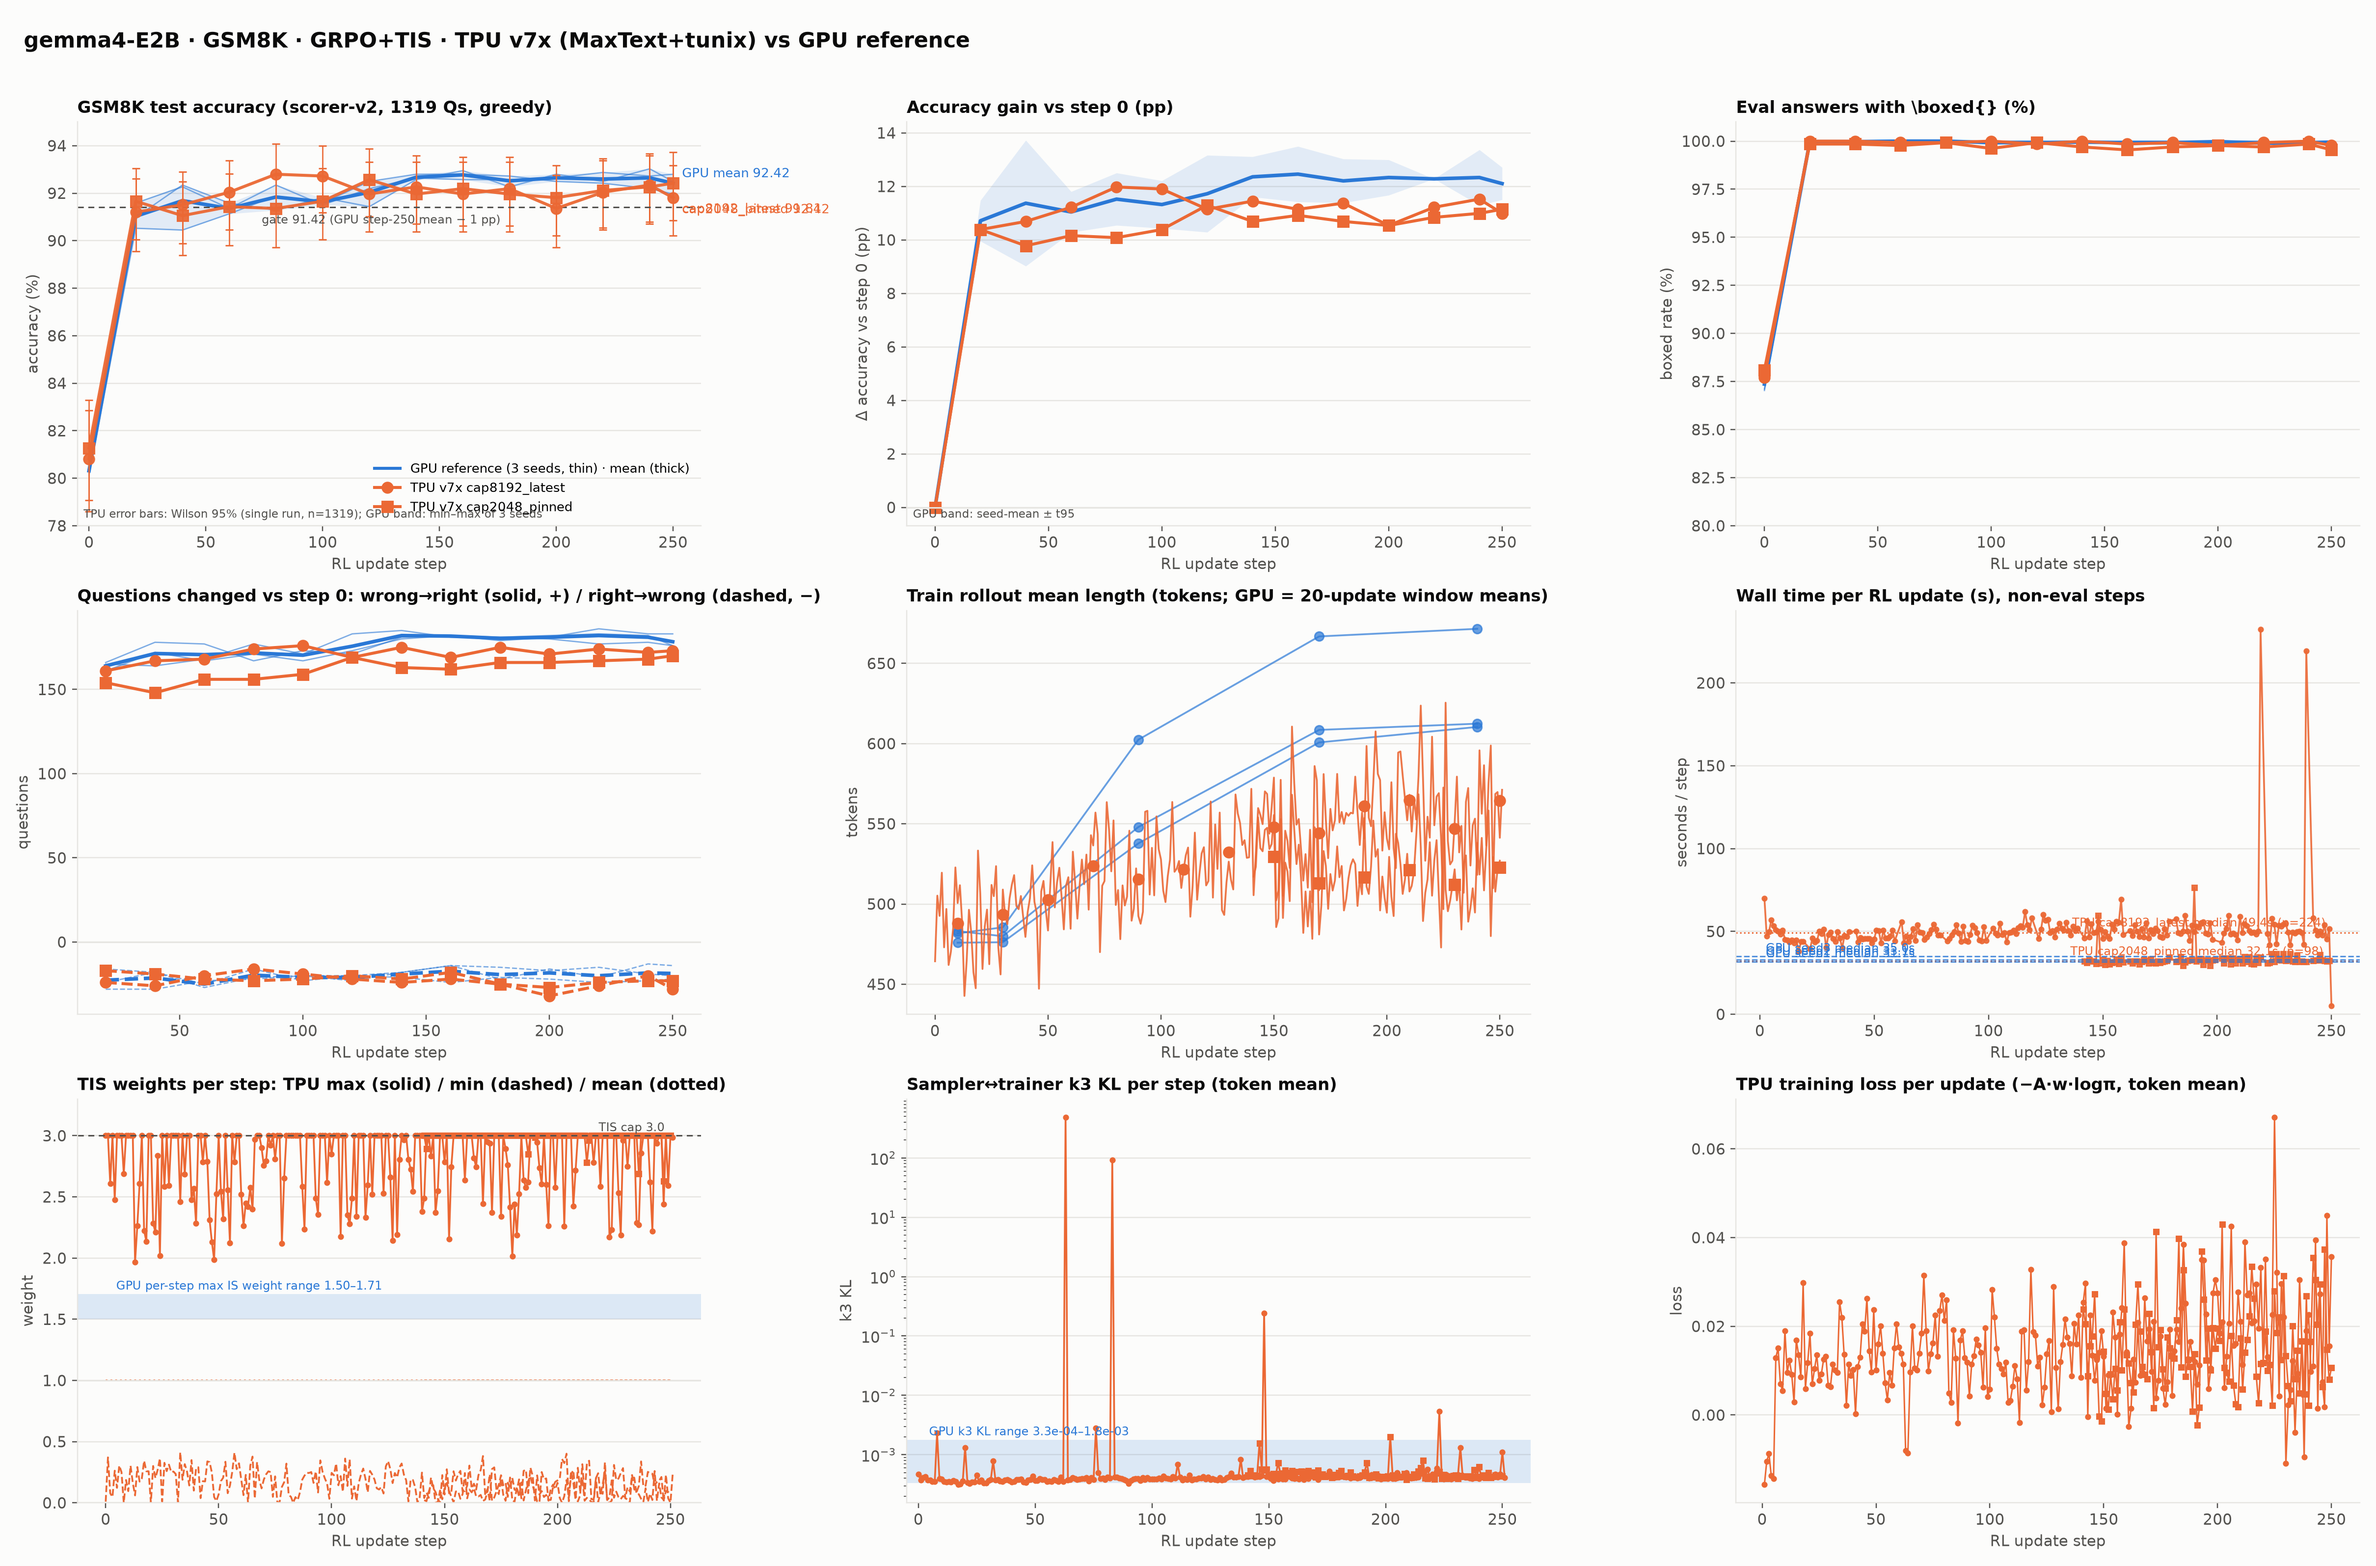
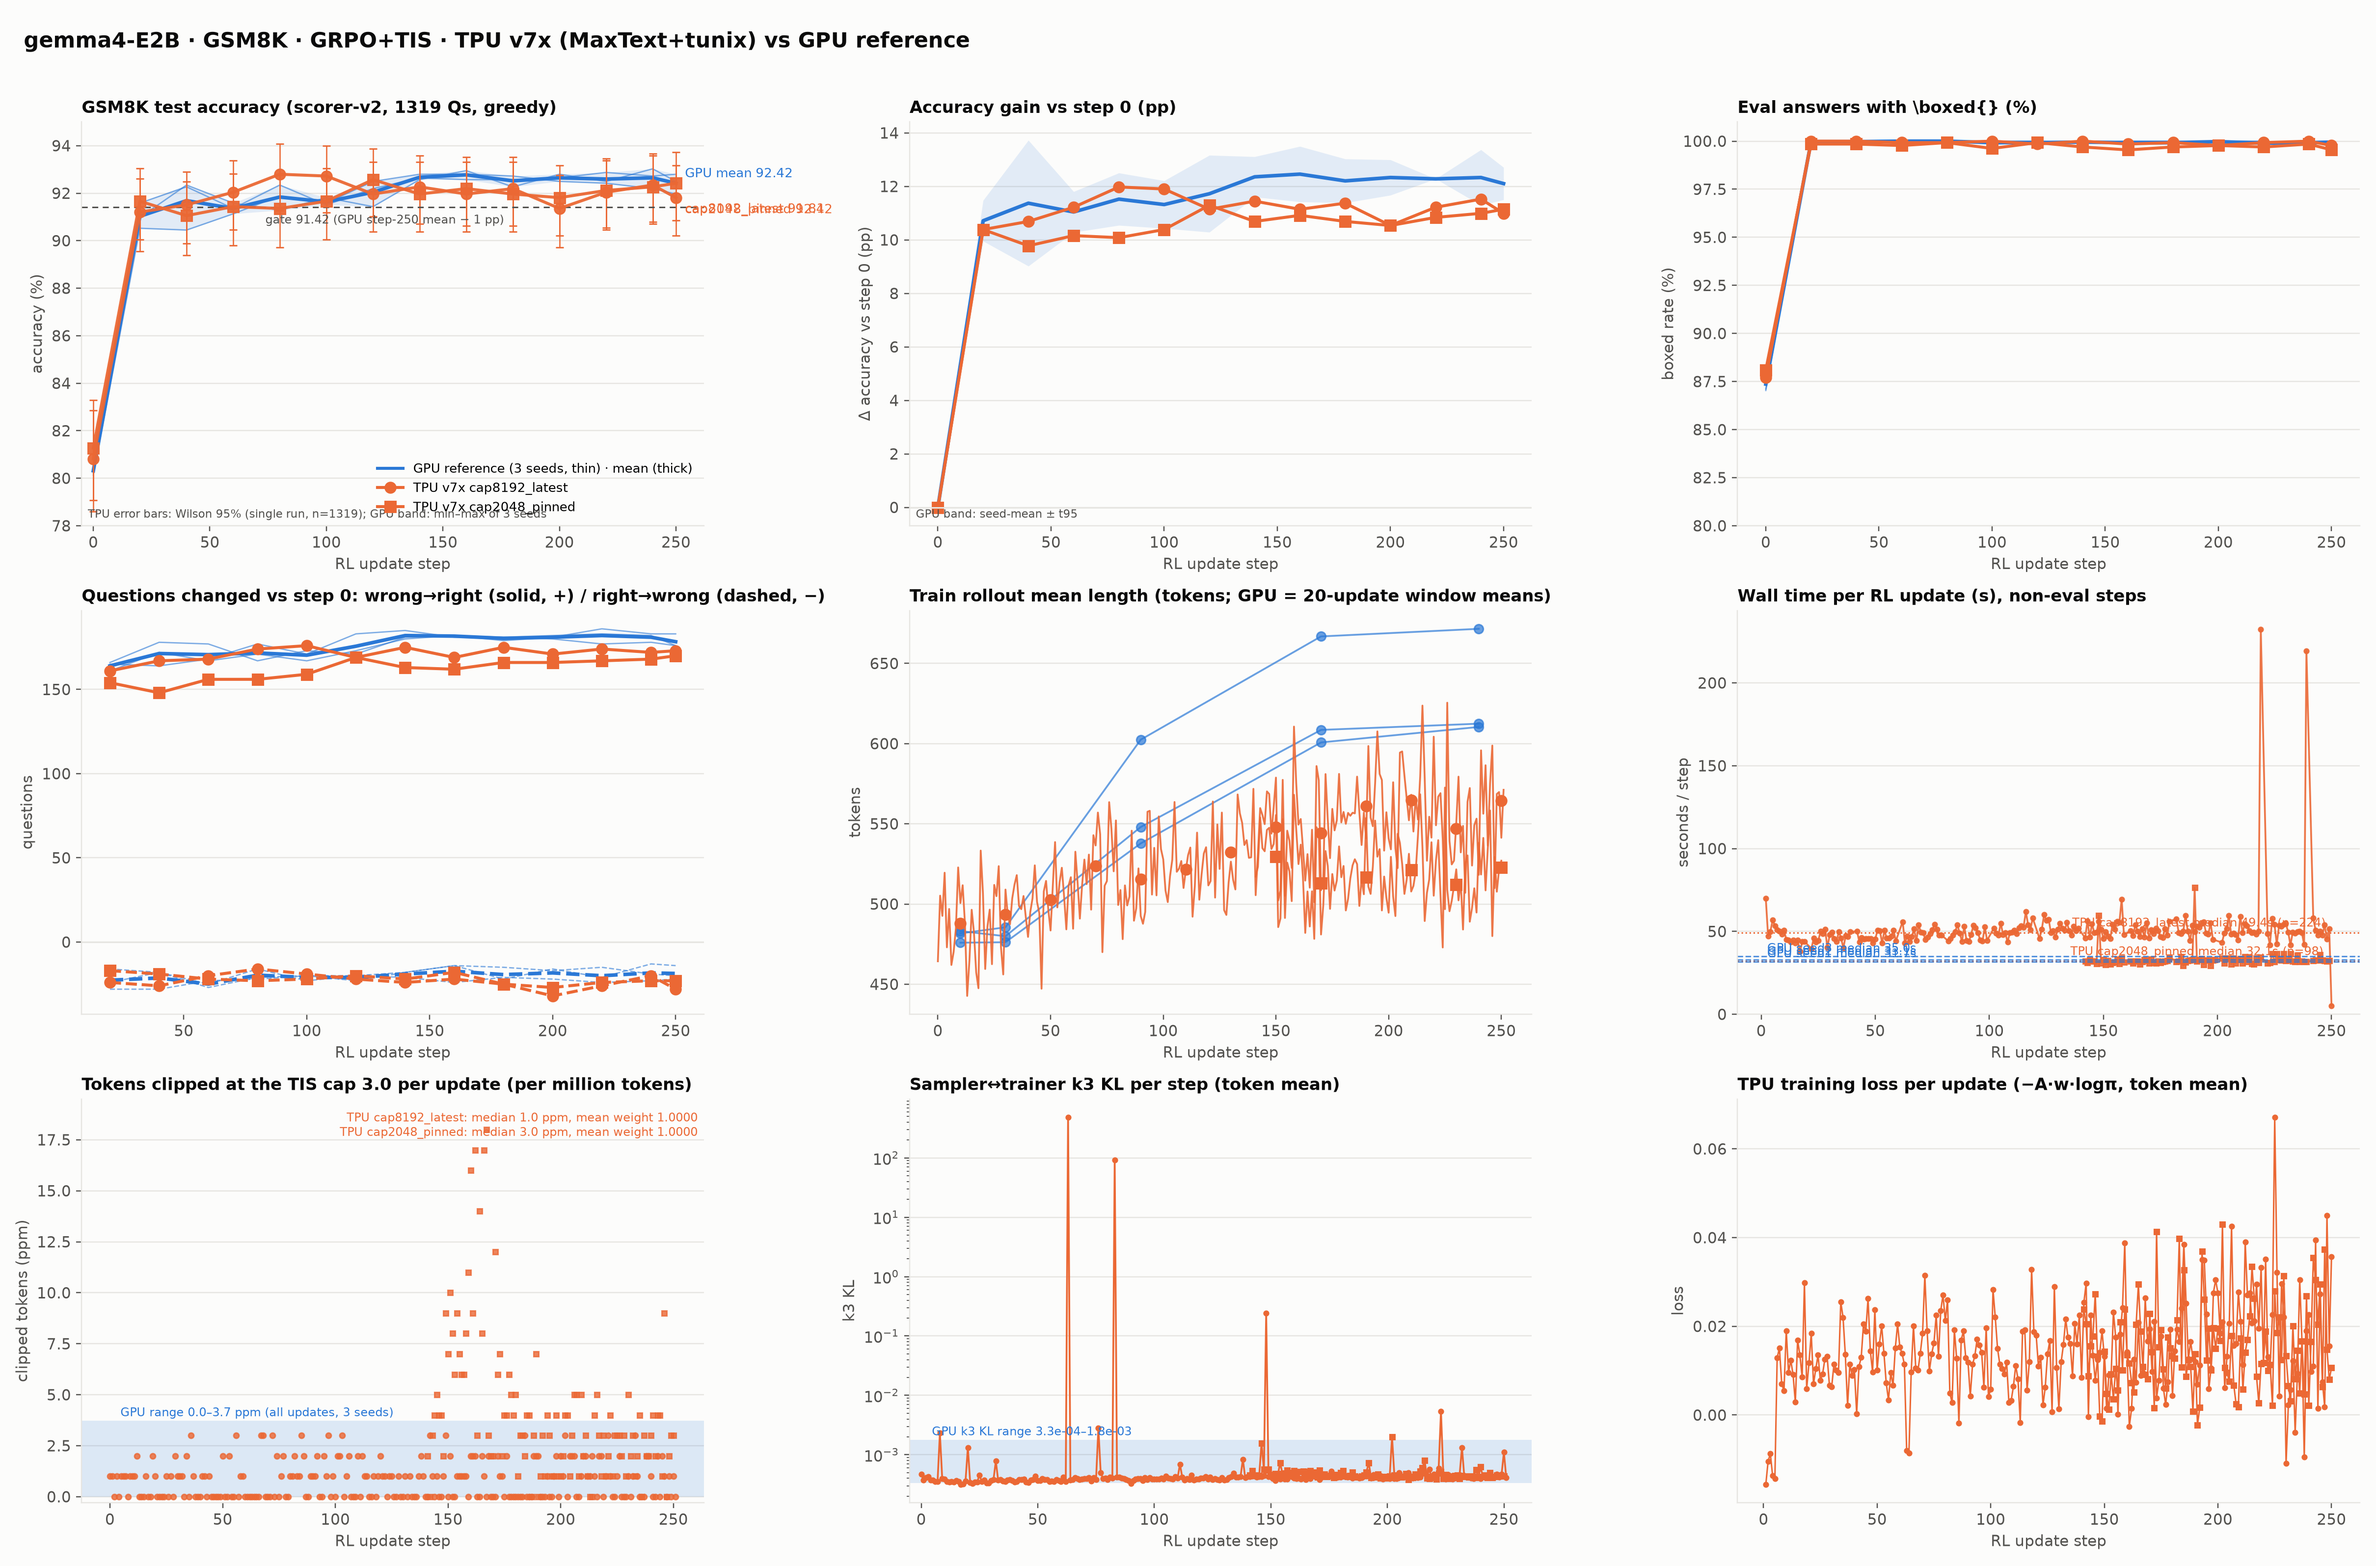
gemma4 parity figures: compare clipped-token fraction instead of weight max (GPU max is a per-worker average); deterministic duplicate-dump choice; regenerate cap-8192 overview

diff --git a/gemma4/parity/tools/make_parity_figures.py b/gemma4/parity/tools/make_parity_figures.py
@@ -157,7 +157,11 @@ def load_tpu(name, dumpdir, logs):
         if step in evals:
             # two dumps for one step (a first pass and a resumed re-run): keep the one from the LATER file
             # name is not meaningful, so prefer the re-run = the dump written last (mtime)
-            if os.path.getmtime(fp) < evals[step].get("mtime", 0):
+            # near-equal mtimes (dumps re-downloaded together): the re-run after a checkpoint resume is the dump
+            # named exactly on the grid (eval_120 vs the first pass's eval_121), so keep the on-grid one
+            mt, pmt = os.path.getmtime(fp), evals[step].get("mtime", 0)
+            tie = abs(mt - pmt) < 300  # same download batch
+            if (not tie and mt < pmt) or (tie and evals[step].get("k") == step and k != step):
                 print(f"  [skip] {os.path.basename(fp)}: older duplicate of step {step}", file=sys.stderr)
                 continue
             print(f"  [replace] step {step}: {os.path.basename(fp)} supersedes the earlier dump", file=sys.stderr)
@@ -309,20 +313,27 @@ def fig_step_time(ax, gpu, tpu_runs):
 
 
 def fig_tis(ax, gpu, tpu_runs):
+    # Like-for-like: share of tokens whose importance ratio exceeds the TIS cap (TPU frac_clipped == GPU
+    # rollout_is_ratio_fraction_high). The per-update weight max is NOT comparable: TPU logs the true max over
+    # ~1e6 tokens (reads 3.0 whenever one token is clipped), the GPU logs a max averaged over its 64 workers
+    # (1.5-1.7 even in updates that report clipped tokens).
+    capped = []; top = 0.0
     for i, r in enumerate(tpu_runs):
         xs = sorted(s for s, rec in r["steps"].items() if "tis" in rec)
         if not xs: continue
-        ax.plot(xs, [r["steps"][s]["tis"]["wmax"] for s in xs], color=TPU_C, lw=1.2, marker=MARKERS[i % len(MARKERS)], ms=3)
-        ax.plot(xs, [r["steps"][s]["tis"]["wmin"] for s in xs], color=TPU_C, lw=1.2, ls="--")
-        ax.plot(xs, [r["steps"][s]["tis"]["wmean"] for s in xs], color=TPU_C, lw=1.2, ls=":")
-    lo = min(gpu["train"][sd]["is_max_range"][0] for sd in gpu["seeds"] if "is_max_range" in gpu["train"].get(sd, {}))
-    hi = max(gpu["train"][sd]["is_max_range"][1] for sd in gpu["seeds"] if "is_max_range" in gpu["train"].get(sd, {}))
+        ys = [r["steps"][s]["tis"]["clip"] * 1e6 for s in xs]
+        top = max(top, max(ys))
+        ax.plot(xs, ys, color=TPU_C, lw=0, marker=MARKERS[i % len(MARKERS)], ms=3.5, alpha=0.8)
+        wm = [r["steps"][s]["tis"]["wmean"] for s in xs]
+        capped.append(f"{r['name']}: median {np.median(ys):.1f} ppm, mean weight {np.mean(wm):.4f}")
+    gs = [sd for sd in gpu["seeds"] if "is_fraction_high_range" in gpu["train"].get(sd, {})]
+    lo = min(gpu["train"][sd]["is_fraction_high_range"][0] for sd in gs) * 1e6
+    hi = max(gpu["train"][sd]["is_fraction_high_range"][1] for sd in gs) * 1e6
     ax.axhspan(lo, hi, color=GPU_C, alpha=0.15, lw=0)
-    ax.annotate(f"GPU per-step max IS weight range {lo:.2f}–{hi:.2f}", (2, hi), xytext=(4, 3), textcoords="offset points", color=GPU_C, fontsize=8)
-    ax.axhline(3.0, color=INK2, lw=1, ls=(0, (4, 3))); ax.annotate("TIS cap 3.0", (250, 3.0), xytext=(-4, 3), textcoords="offset points", ha="right", color=INK2, fontsize=8)
-    ax.axhline(1.0, color=GRID, lw=1)
-    style_ax(ax, "TIS weights per step: TPU max (solid) / min (dashed) / mean (dotted)", ylabel="weight")
-    ax.set_ylim(0, 3.3)
+    ax.annotate(f"GPU range {lo:.1f}–{hi:.1f} ppm (all updates, {len(gs)} seeds)", (2, hi), xytext=(4, 3), textcoords="offset points", color=GPU_C, fontsize=8)
+    ax.text(0.99, 0.97, "\n".join(["TPU " + c for c in capped]), transform=ax.transAxes, ha="right", va="top", color=TPU_C, fontsize=8)
+    style_ax(ax, "Tokens clipped at the TIS cap 3.0 per update (per million tokens)", ylabel="clipped tokens (ppm)")
+    ax.set_ylim(-0.3, max(8.0, hi * 1.6, top + 1.5))
 
 
 def fig_k3_ess(ax, gpu, tpu_runs):
